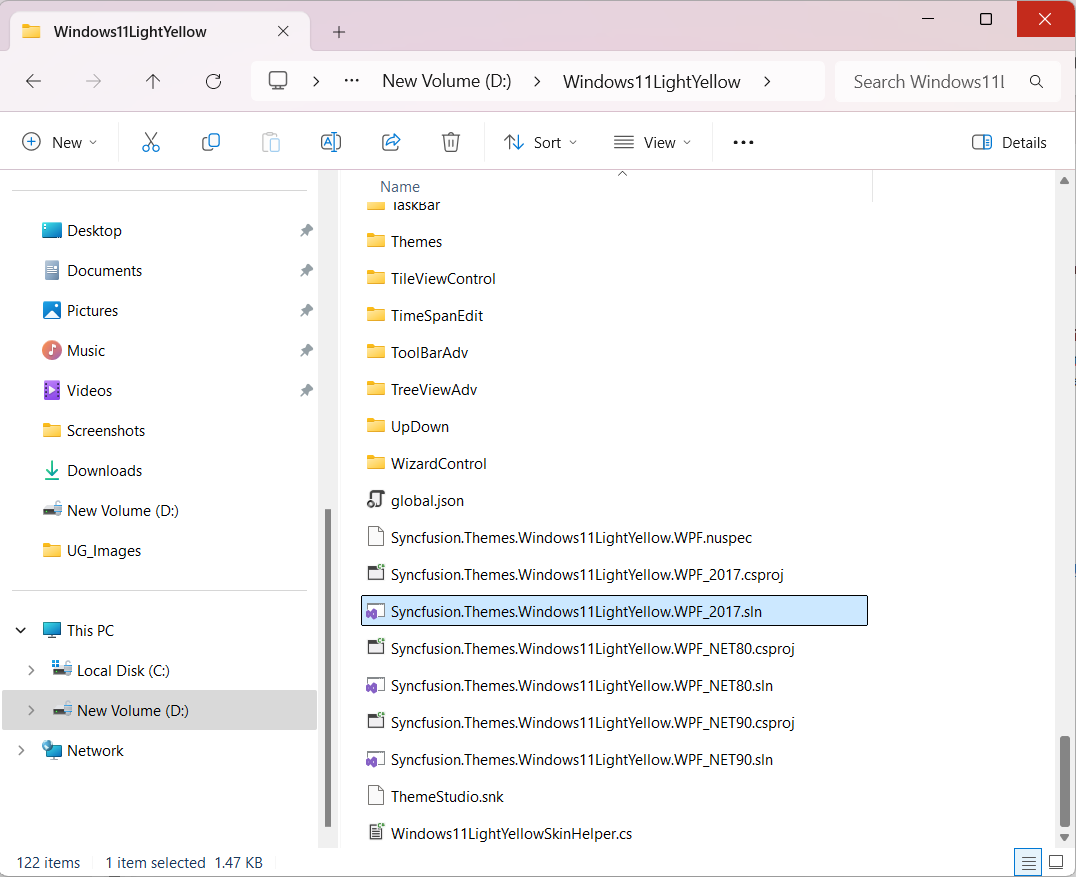
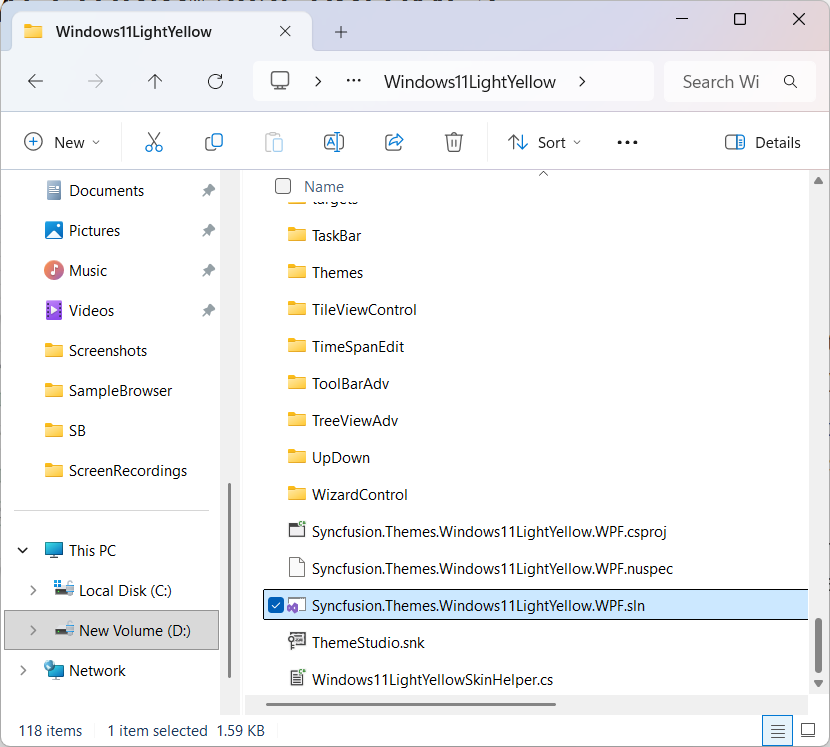
Updated ThemeStudio UG Notes

diff --git a/wpf/Themes/Theme-Studio.md b/wpf/Themes/Theme-Studio.md
@@ -274,40 +274,15 @@ Provide the theme name, in which the theme should be exported, and select the re
 
 ![Add Theme as Project for Theme Export](ThemeStudio_images/ThemeStudio-Themes-Folder.png)
 
-N> When running the exported project in .NET 8.0 or .NET 9.0 environments, you may encounter reference issues due to missing or incompatible assemblies. To resolve this, manually add references to the required assemblies from the appropriate framework installation path or NuGet packages. Refer path location: C:\Program Files (x86)\Syncfusion\Essential Studio\WPF\ {product version}\precompiledassemblies\ {targetframework}\
+When running the exported single SDK-style theme project, you may encounter reference issues due to missing or incompatible assemblies across the targeted frameworks (4.6.2, .NET 8.0, .NET 9.0, and .NET 10). To resolve this, update the product version in the path specified in the <SyncfusionInstallLocation> tag of the exported .csproj theme project to match the installed product version, as shown in the image below. Reference path: C:\Program Files (x86)\Syncfusion\Essential Studio\WPF\{product version} 
+
+![Add Reference Path for Exported Theme Projects](ThemeStudio_images/Reference_Path.png)
 
 ### Generating theme assembly
 
-Let us see the step-by-step procedure for ensuring theme assembly generation for exported theme projects.
+Let us see the procedure for ensuring theme assembly generation for exported theme projects.
 
-**Step 1**
-
-The following exported theme project should be attached to corresponding target frameworks used in the WPF application.
-
-<table>
-<tr>
-<th>
-Target Framework</th><th>
-Solution Project</th></tr>
-<tr>
-<td>
-.Net 9.0</td><td>
-Syncfusion.Themes.Windows11LightYellow.WPF_NET90.csproj </td>
-</tr>
-<tr>
-<td>
-.Net 8.0</td><td>
-Syncfusion.Themes.Windows11LightYellow.WPF_NET80.csproj </td>
-</tr>
-<tr>
-<td>
-.Net Framework 4.6.2</td><td>
-Syncfusion.Themes.Windows11LightYellow.WPF_2017.csproj </td></tr>
-</table>
-
-**Step 2**
-
-Rebuild the exported theme project in `Release` mode to generate the theme assembly.  
+Rebuild the exported single SDK-Style theme project in `Release` mode to generate the theme assembly.  
 
 The export theme project has default `ThemeStudio.snk` key pair. If it is not required, use the already created private key pair by referring to the export theme project inside the application properties or [Create a new key pair](https://docs.microsoft.com/en-us/dotnet/standard/assembly/create-public-private-key-pair) using Visual Studio if the private key pair was not created externally.
 
